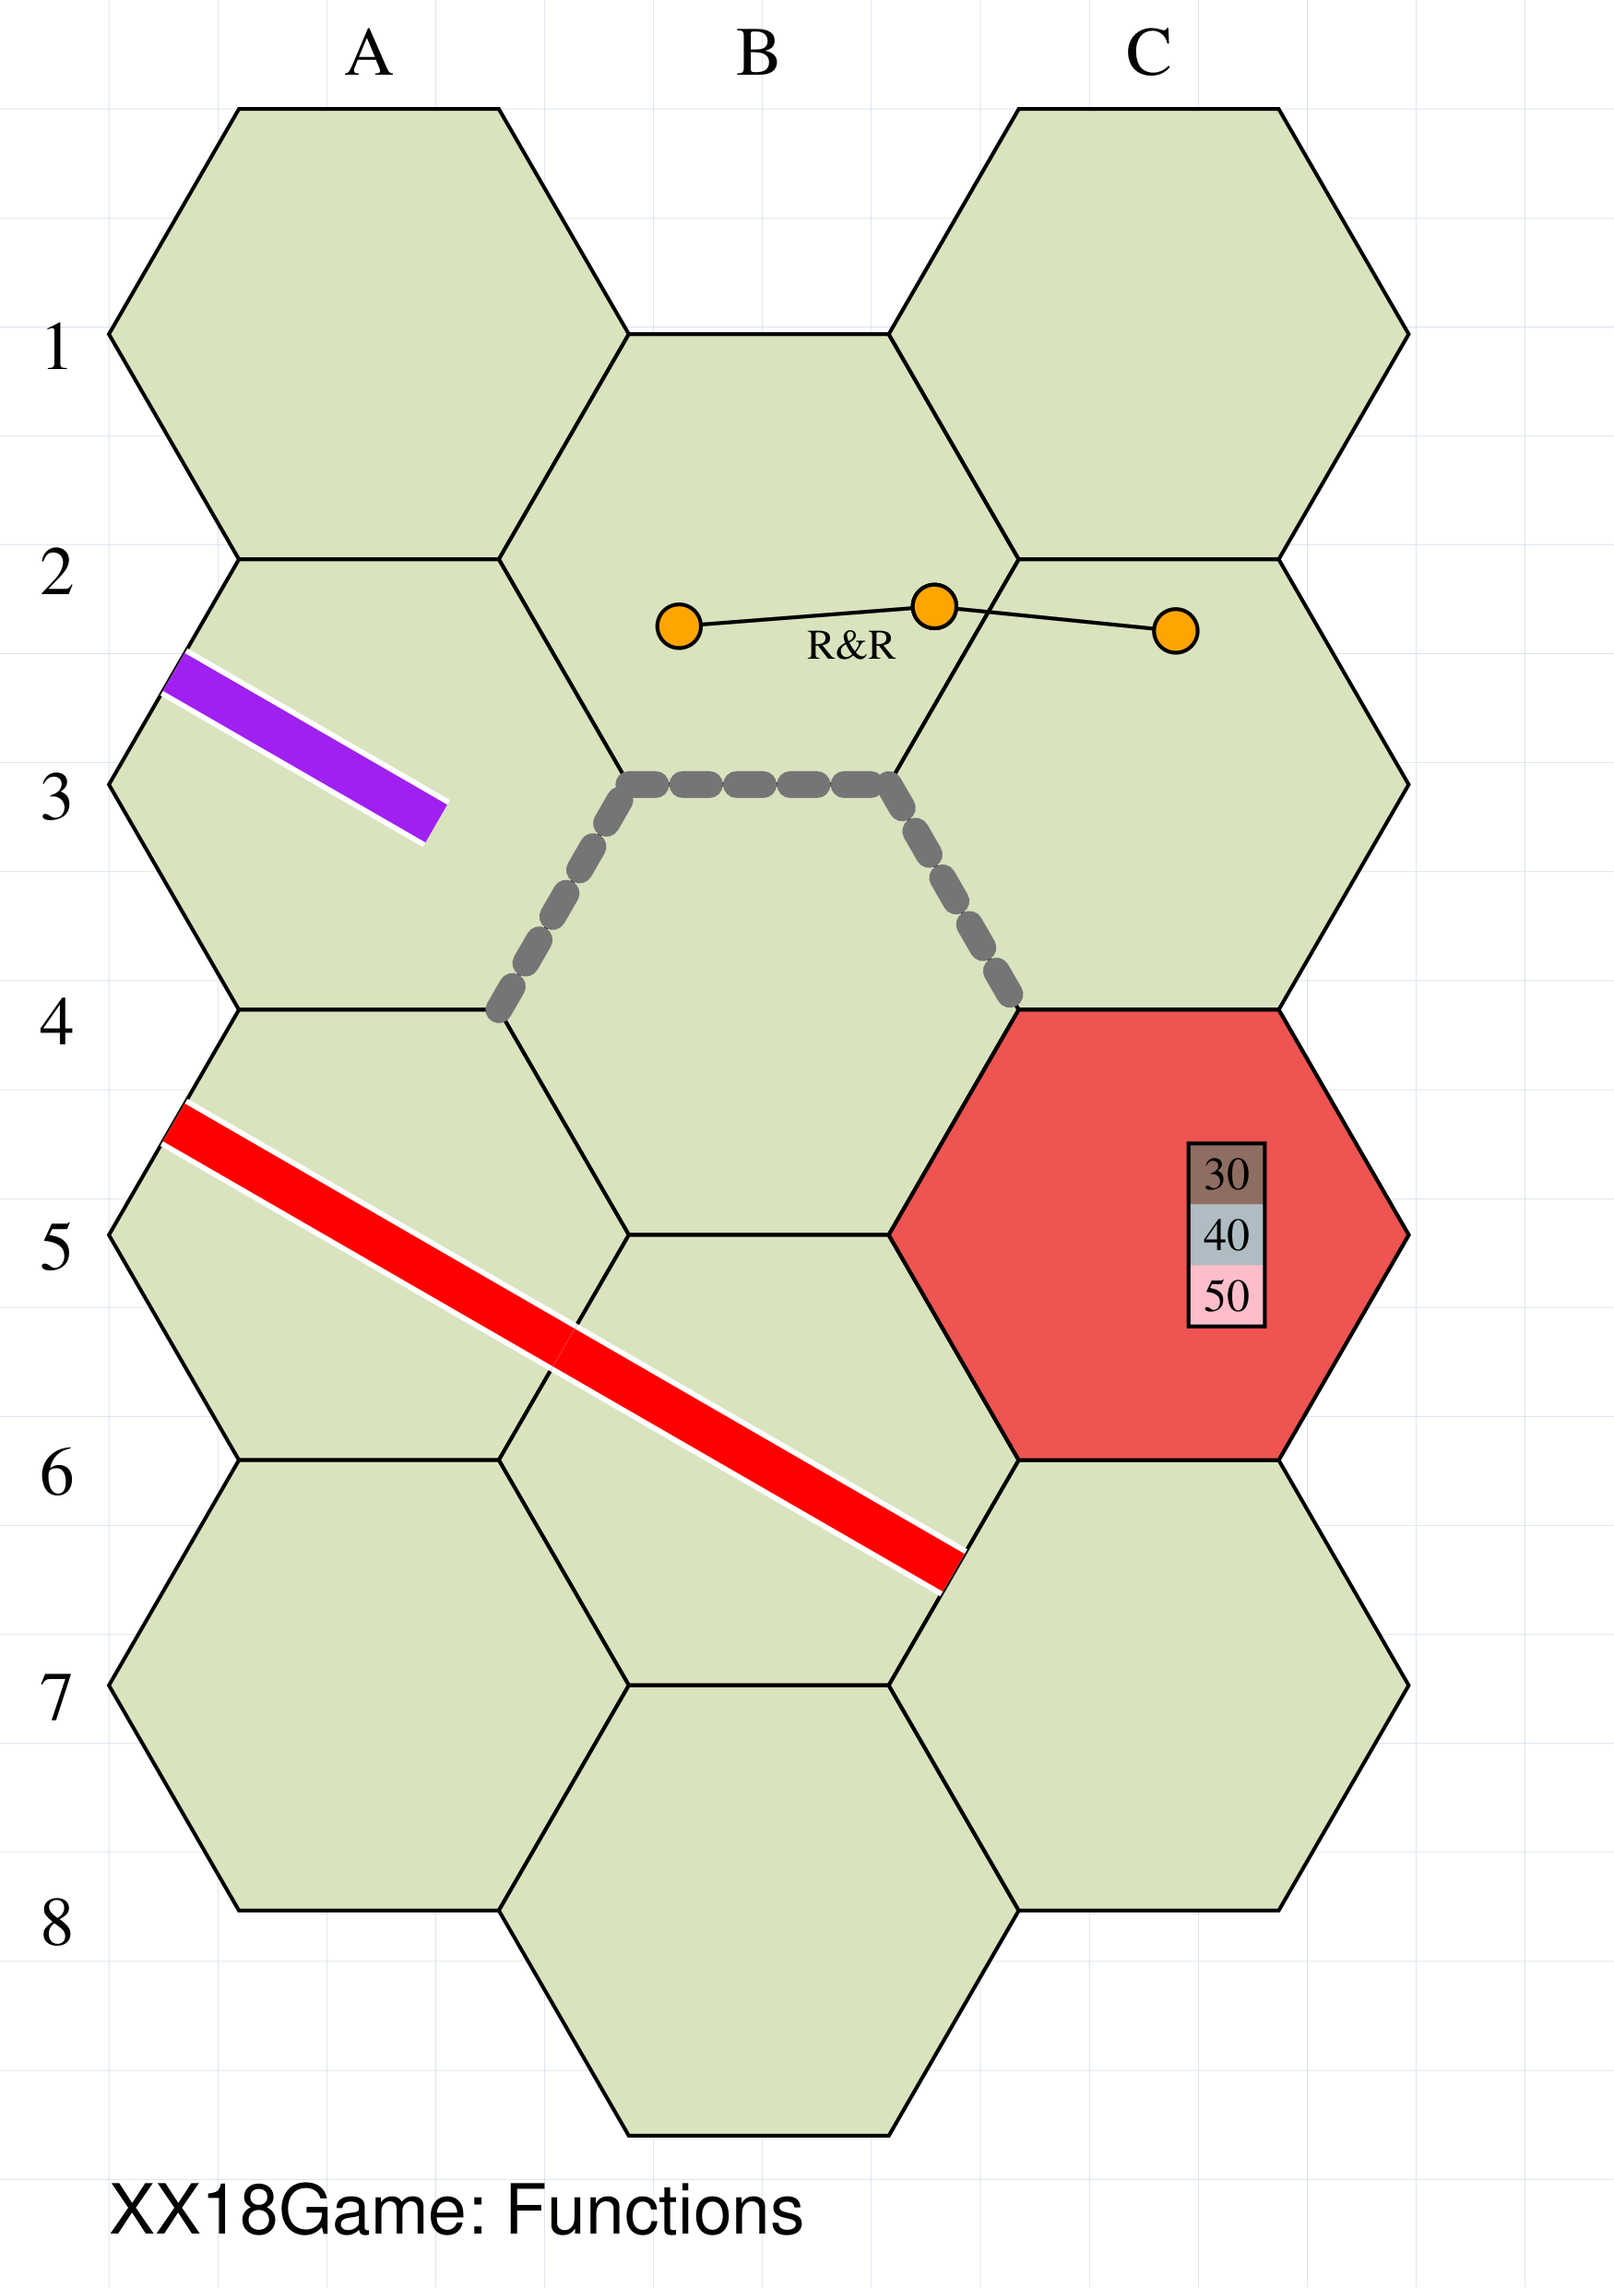
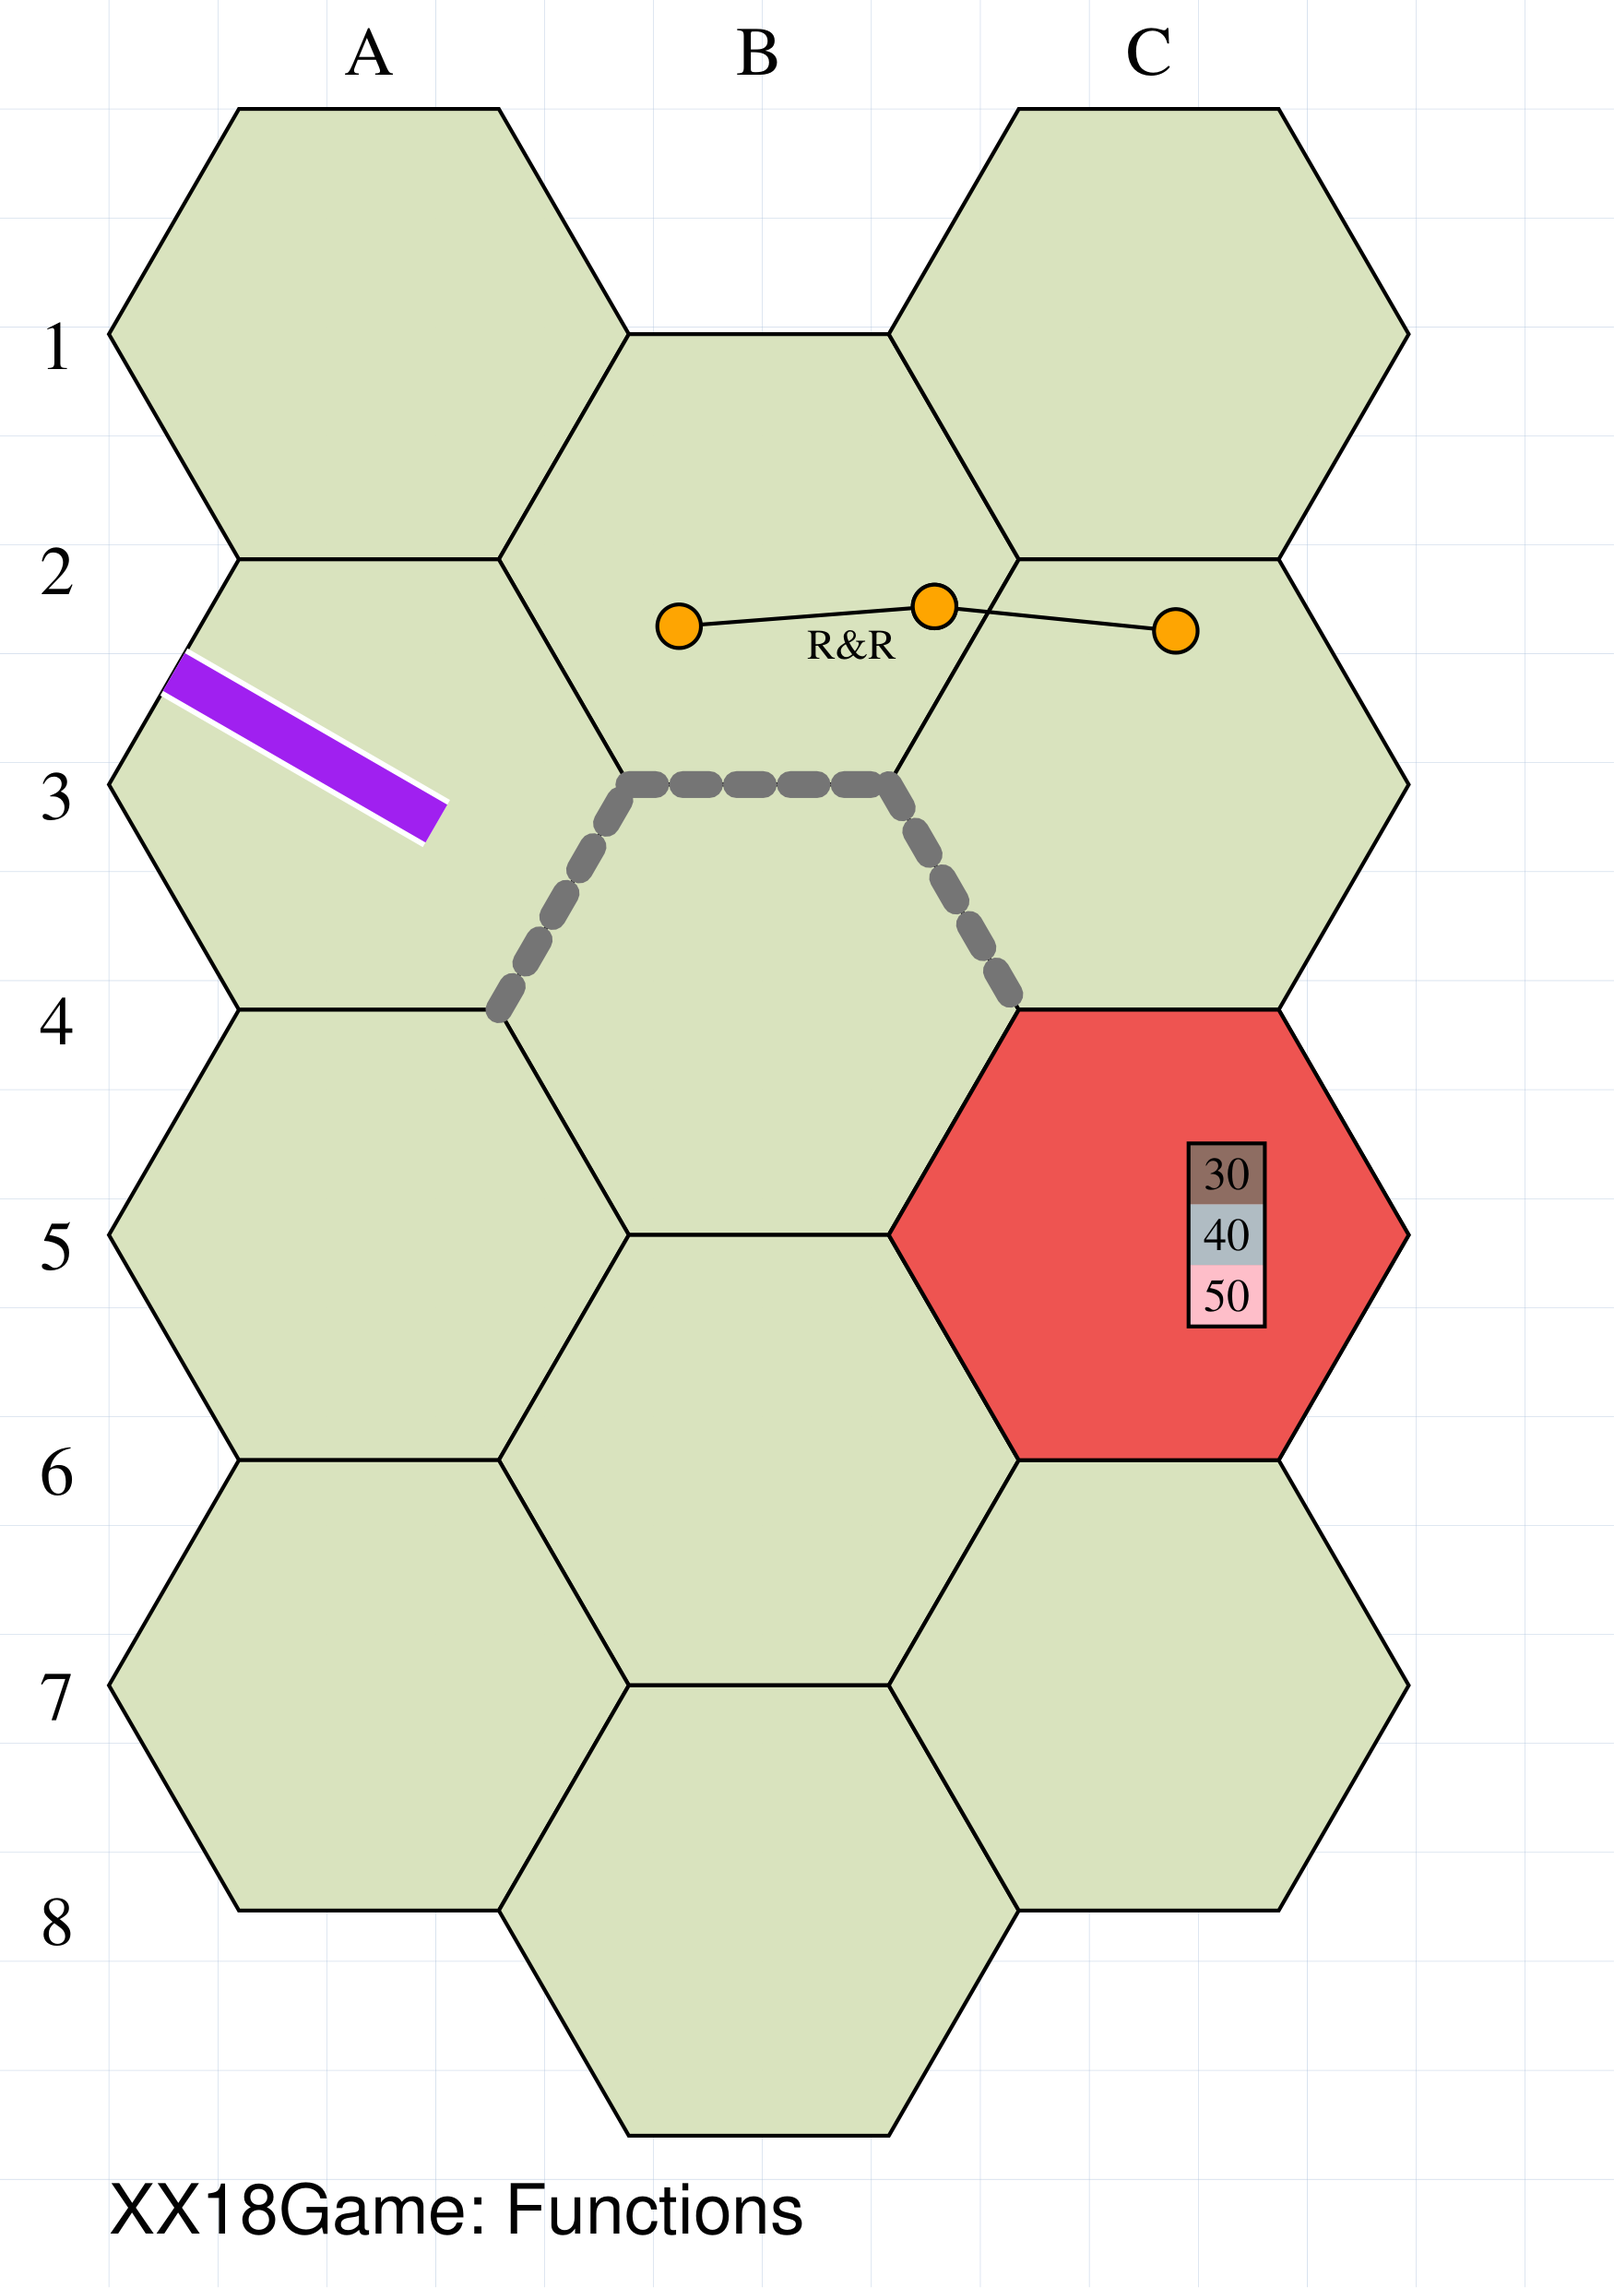
Update examples and docs for XX18 Game

Changed region(s): [[0.0926, 0.4657, 0.6171, 0.7141]]

diff --git a/examples/objects/xx18.py b/examples/objects/xx18.py
@@ -351,6 +351,7 @@ xgmis = XX18Game(
         ('A5', 'track', 'e,w'),
         ('A5', 'town_border', None),
         ('B4', 'block', "w nw ne"),
+        ('B6', image('images/Jinchu_Railway.svg', height=1.5, width=1.5)),
         ('C1', 'river_line', 'nw C1,se C3,se D6,e'),
         ('C5', 'block', "nw", "xred"),
         ('D2 D4', polygon(sides=5, side=0.5, fill_stroke="olive"), (210, 0.7)),

diff --git a/docs/source/objects/xx18.rst b/docs/source/objects/xx18.rst
@@ -1104,6 +1104,7 @@ Feature #11. Miscellaneous
         ('A5', 'track', 'e,w'),
         ('A5', 'town_border', None),
         ('B4', 'block', 'w nw ne'),
+        ('B6', image('images/Jinchu_Railway.svg', height=1.5, width=1.5)),
         ('C1', 'river_line', 'nw C1,se C3,se D6,e'),
         ('C5', 'block', "nw", 'xred'),
         ('D2 D4', polygon(sides=5, side=0.5, fill_stroke="olive"), (210, 0.7)),
@@ -1129,8 +1130,12 @@ features to the board. These are:
   in one or more hexagons, by providing the shape's name, in lowercase,
   along with all the usual construction details; it will be drawn either,
   by default, at the centre of the hexagon(s), or at an offset, by
-  setting the values for ``(direction, distance)``.  The olive-colored
-  ``polygon`` shown in ``D2`` and ``D4`` is an example of this.
+  setting the values for ``(direction, distance)``.
+
+  * The olive-colored ``polygon`` shown in ``D2`` and ``D4`` is one example
+    of adding a normal shape with an offset.
+  * The SVG ``image`` shown in ``B6`` is another example of adding a normal
+    shape; it has no offset so is drawn, by default, at the hexagon centre
 * A **river_line** is a wavy line drawn between hexagon edges/vertices.
   The locations for the points along the river are given by pairs of
   ``Hexagon,Vertex`` location values; for example ``C1,se`` to indicate
@@ -1457,7 +1462,8 @@ The keyword args (``kwargs``) passed to such a function include:
 list of location grid *locations*; list of *hexes* geometries; the
 *label*, *direction* and *distance*. Note that just because these
 values are passed to the function does not mean they have to be
-used.
+used, but it does mean the function itself should not directly
+define these properties in its own definition.
 
 
 
@@ -1515,9 +1521,12 @@ the ``XX18Game()`` command, that be changed in a JSON file; see
 * ``"XX18_TRACK_OUTER_FILL"`` - default is ```white``; edge color
 * ``"XX18_MOUNTAIN_SIDE"`` - default is ``0.6`` cm; side of the triangle
 * ``"XX18_MOUNTAIN_FILL"`` - default is ``black``; color inside the triangle
-* ``"XX18_SPIKE_FRACTION_SHORT"`` - default is ``0.1``; fraction of hex for short spike
-* ``"XX18_SPIKE_FRACTION_MEDIUM"`` - default is ``0.25``; fraction of hex for medium spike
-* ``"XX18_SPIKE_FRACTION_LONG"`` - default is ``0.45``; fraction of hex for long spike
+* ``"XX18_SPIKE_FRACTION_SHORT"`` - default is ``0.1``; fraction of hexagon diameter
+    for a short spike
+* ``"XX18_SPIKE_FRACTION_MEDIUM"`` - default is ``0.25``; fraction of hexagon diameter
+    for a medium spike
+* ``"XX18_SPIKE_FRACTION_LONG"`` - default is ``0.45``; fraction of hexagon diameter
+    for a long spike
 * ``"XX18_PHASE_REVENUE_BOX"`` - default is ``0.7`` cm; default width of single cell
 * ``"XX18_HEX_RIVER_WAVE_HEIGHT"`` - default is ``0.15`` cm; wave height in feature river_line
 * ``"XX18_DEBUG_FONT_FRACTION"`` - default is ``0.75``; relative size of debug font
@@ -1548,8 +1557,8 @@ XX18Game Function Options
 `↑ <xx18Index_>`_
 
 The section on `XX18Game Functions`_ illustrates example of how to use
-the built-in function of the ``XX18Game()`` command. Below are the details
-of all available properties and which function(s) use them.
+the built-in functions of the ``XX18Game()`` command. Below are the details
+of all available properties and which function(s) make use of them.
 
 Available Properties
 --------------------
@@ -1589,7 +1598,8 @@ built-in functions.
 Function Properties
 -------------------
 
-The following list shows which properties are available for which functions.
+The following list shows which `Available Properties`_ are applicable for
+which functions.
 
 Note that if you omit the property name when using the function, you **MUST**
 supply properties in the exact order shown. So for example, you can use:
@@ -1598,7 +1608,7 @@ supply properties in the exact order shown. So for example, you can use:
 
     highlight(location="A1", width=5)
 
-and omit the ``color`` property without causing a problem, but if you
+and omit the ``color`` property without causing a problem but if you
 want to avoid using the property names then all values, up to the last
 one you want to set, must be supplied:
 
